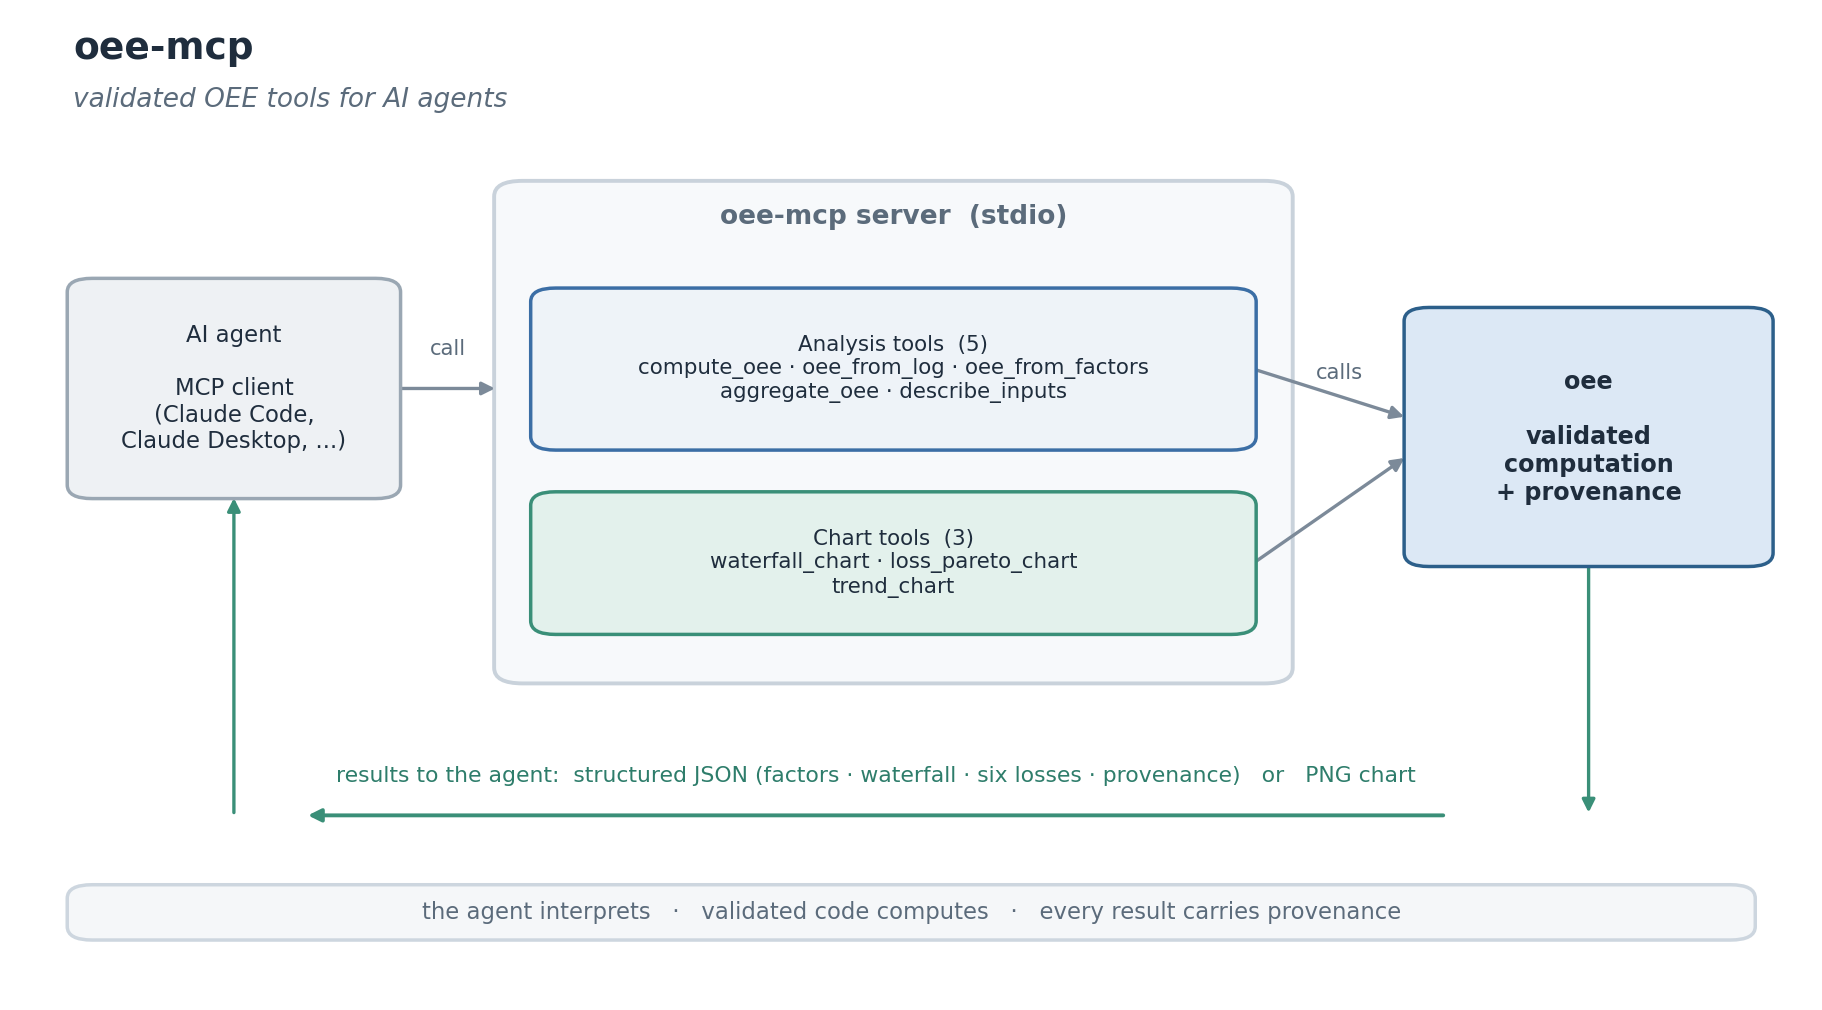
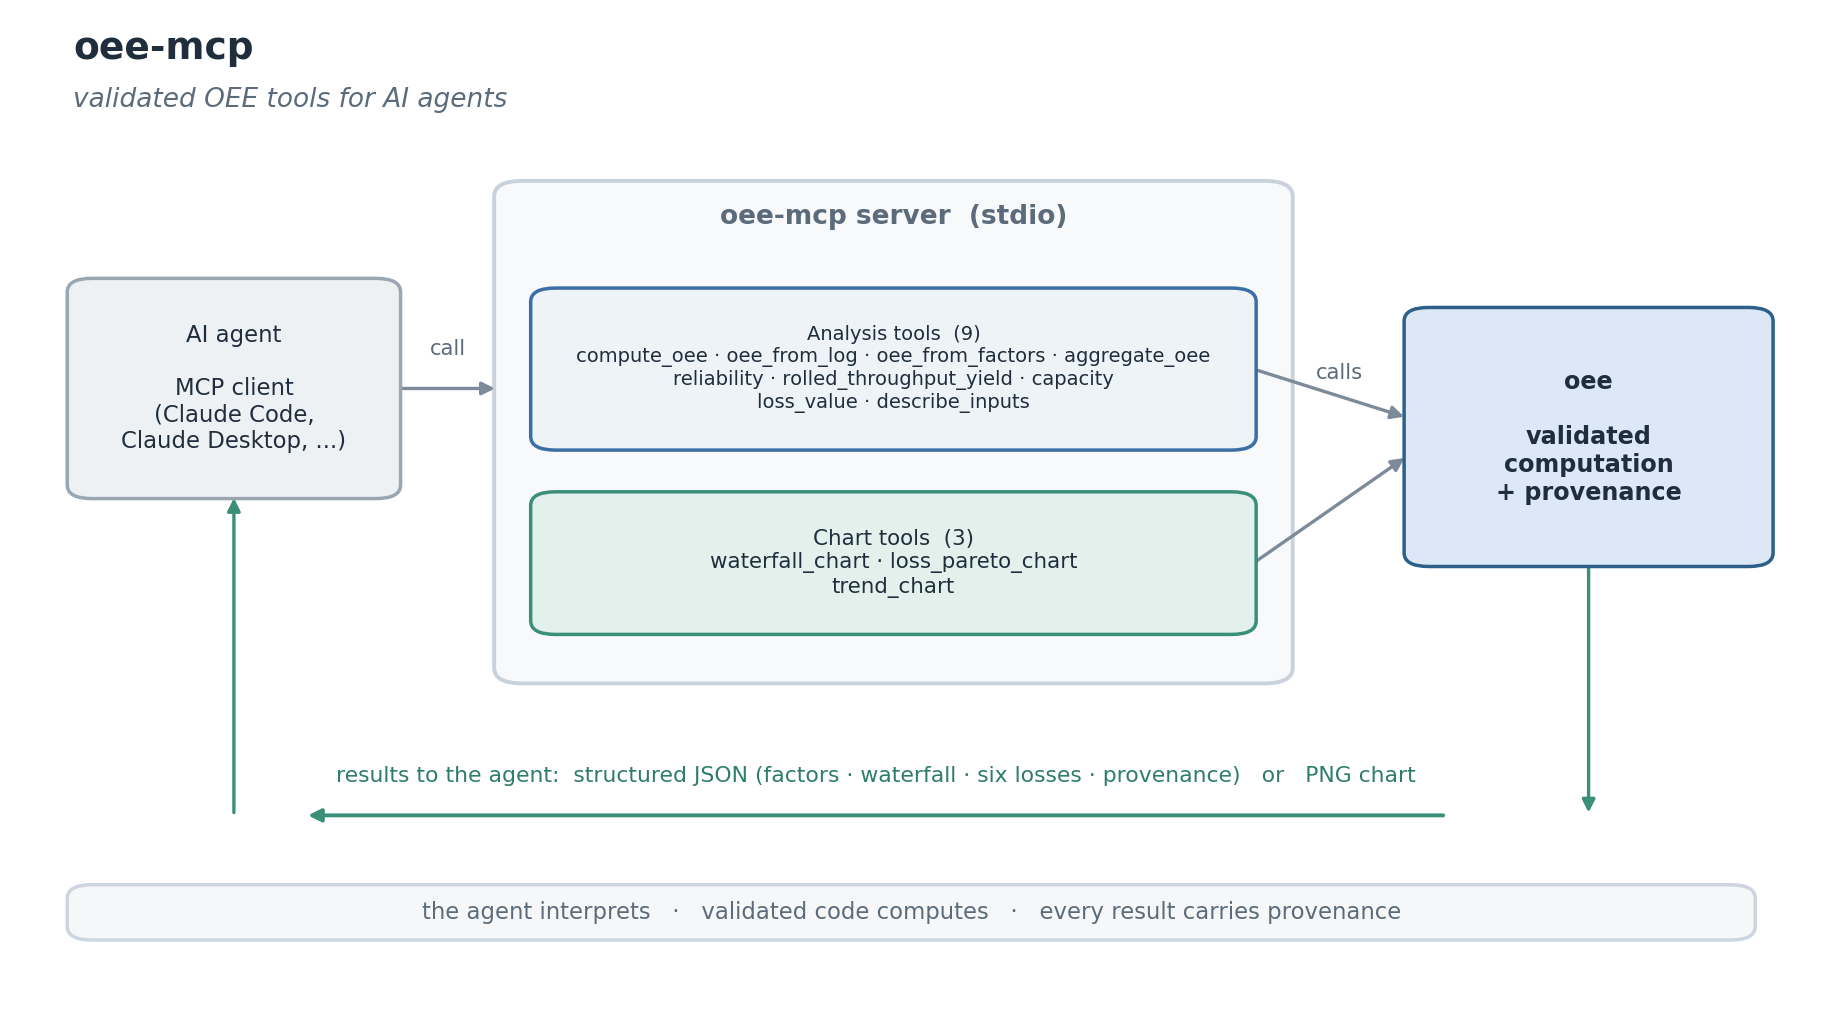
Update architecture figure for the 0.2.0 tools

Changed region(s): [[0.3074, 0.3069, 0.6762, 0.399]]

diff --git a/assets/architecture.py b/assets/architecture.py
@@ -58,9 +58,11 @@ ax.add_patch(FancyBboxPatch((27, 32), 44, 51,
 ax.text(49, 79, "oee-mcp server  (stdio)", ha="center", fontsize=9.5, color=MUT,
         fontweight="bold")
 box(49, 64, 40, 16,
-    "Analysis tools  (5)\ncompute_oee · oee_from_log · oee_from_factors\n"
-    "aggregate_oee · describe_inputs",
-    ANA_F, ANA_E, fs=7.7)
+    "Analysis tools  (9)\n"
+    "compute_oee · oee_from_log · oee_from_factors · aggregate_oee\n"
+    "reliability · rolled_throughput_yield · capacity\n"
+    "loss_value · describe_inputs",
+    ANA_F, ANA_E, fs=7.0)
 box(49, 44, 40, 14,
     "Chart tools  (3)\nwaterfall_chart · loss_pareto_chart\ntrend_chart",
     OPT_F, OPT_E, fs=7.7)